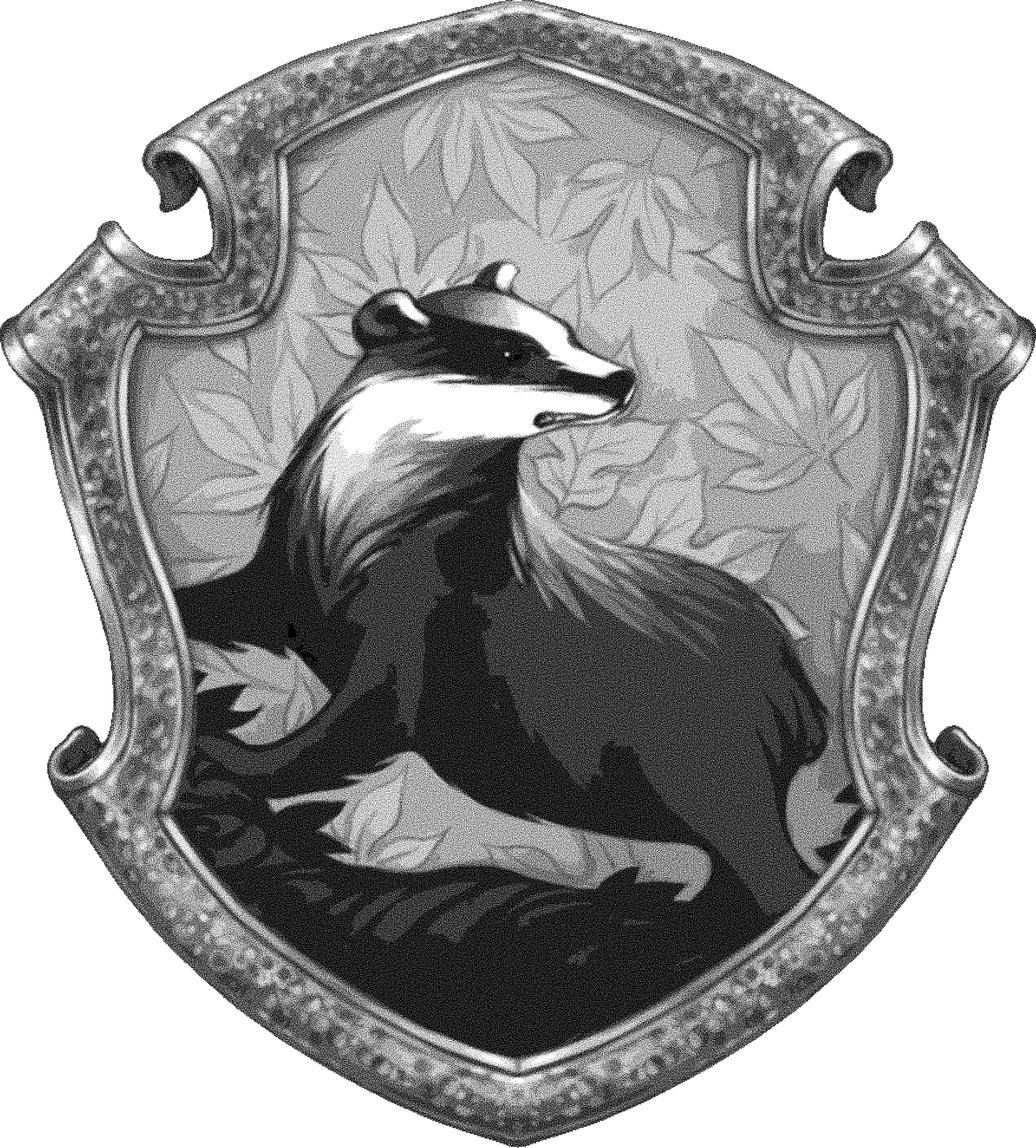
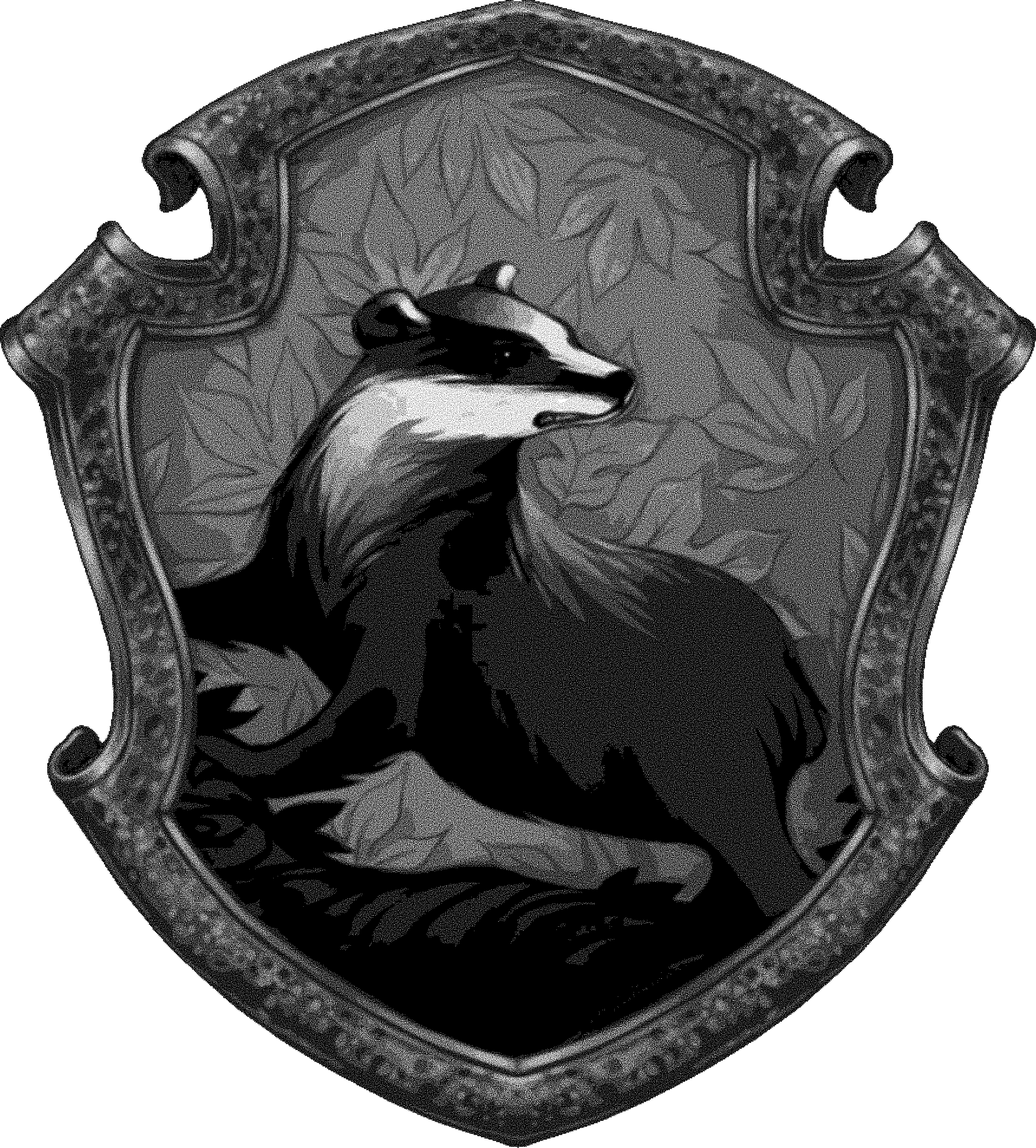
add a posibility to define custom pixel_density distribution

Changed region(s): [[0.0, 0.0, 1.0, 0.9986]]

diff --git a/src/lib.rs b/src/lib.rs
@@ -39,8 +39,12 @@ pub fn run_generate_grid(config: GenerateGridConfig) -> Result<(), Box<dyn Error
     black_and_white_img
         .pixels()
         .for_each(|pixel: (u32, u32, Rgba<u8>)| {
-            let pixels_density =
-                (((255 - pixel.2[0]) as f32 / 255f32 * pixel.2[3] as f32 / 255f32) * 9f32) as u8;
+            let pixels_density = map_value_by_distribution(
+                (255 - pixel.2[0]) as usize * pixel.2[3] as usize,
+                |x| x.sqrt(),
+                255 * 255,
+                9,
+            );
 
             let mut rng = thread_rng();
 
@@ -77,6 +81,21 @@ pub fn run_generate_grid(config: GenerateGridConfig) -> Result<(), Box<dyn Error
     imgbuf.save(target_path).unwrap();
 
     Ok(())
+}
+
+fn map_value_by_distribution<F>(
+    value: usize,
+    distribution: F,
+    max_initial_value: usize,
+    max_final_value: usize,
+) -> usize
+where
+    F: Fn(f32) -> f32,
+{
+    let normalized_value = value as f32 / max_initial_value as f32;
+    let distributed = distribution(normalized_value);
+    let scaled_value = (distributed * max_final_value as f32).round() as usize;
+    scaled_value.min(max_final_value)
 }
 
 pub fn run_tutorial(config: TutorialConfig) -> Result<(), Box<dyn Error>> {
